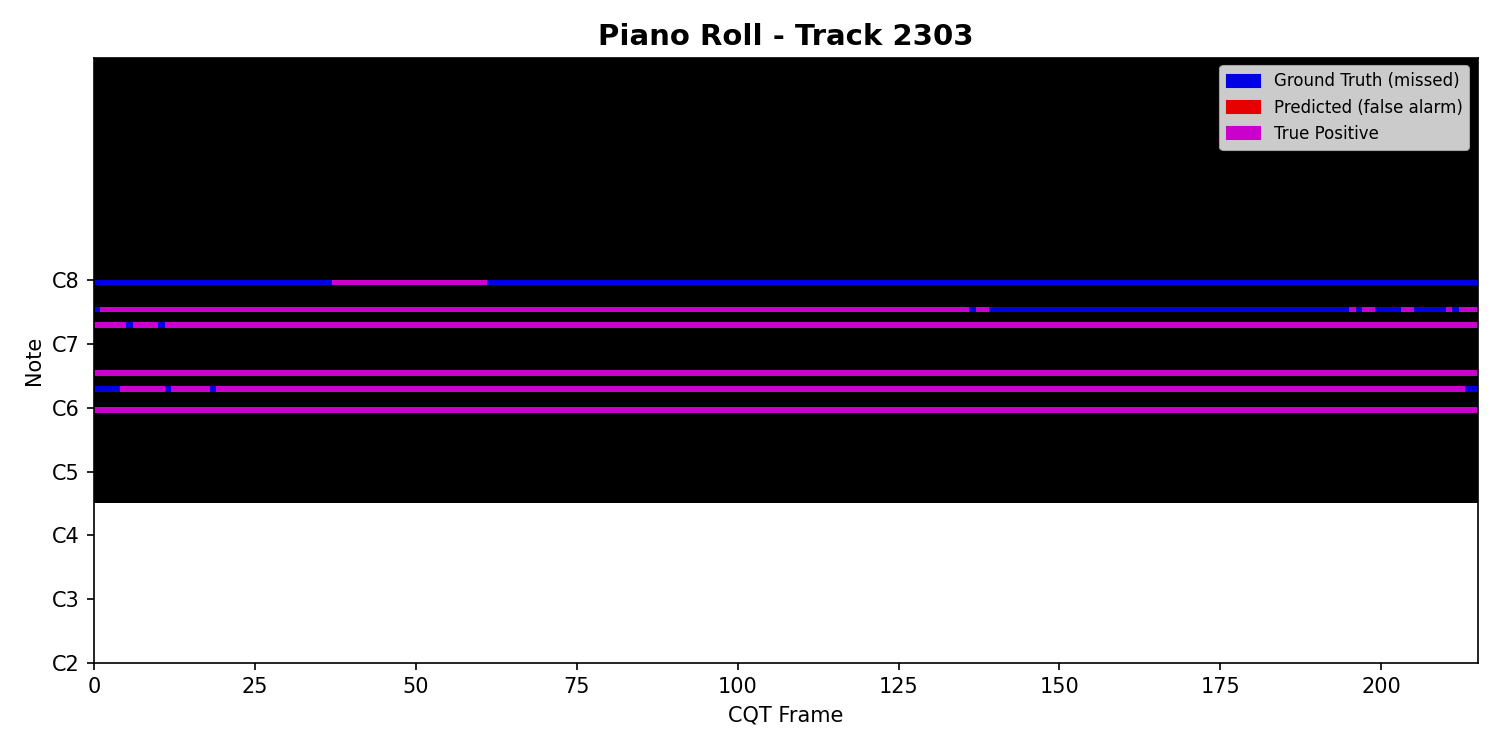
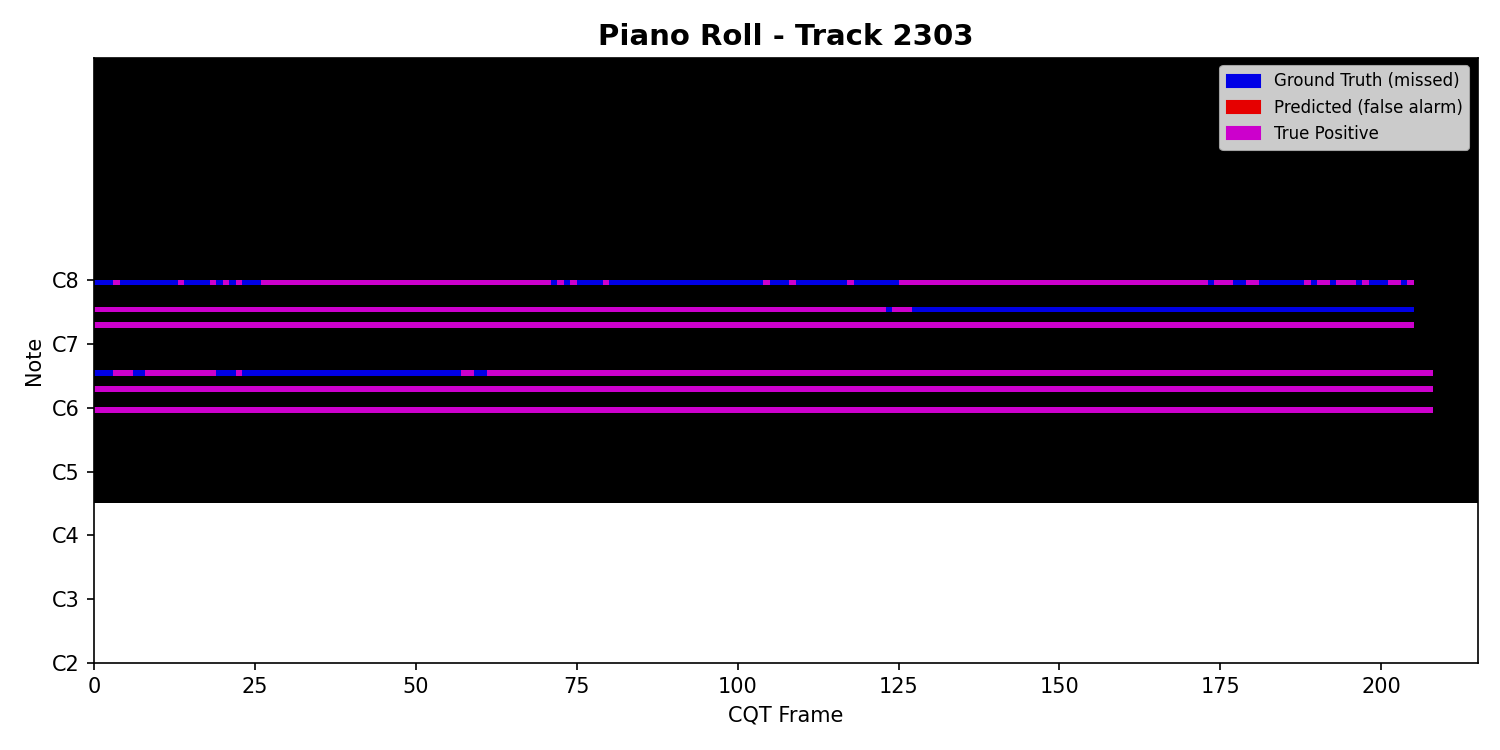
Training Phase 1

diff --git a/src/dataset.py b/src/dataset.py
@@ -196,13 +196,21 @@ class MusicNetPianoDataset(Dataset):
         # creates an empty piano roll
         piano_roll = np.zeros((num_frames, NUM_NOTES), dtype=np.float32)
 
+        # FIX: start_frame e i tempi delle note sono espressi in campioni al
+        # sample rate ORIGINALE del file (orig_sr), ma i frame del modello
+        # (num_frames, HOP_LENGTH) sono nel dominio ricampionato (self.sample_rate).
+        # Senza questa conversione gli indici di frame risultano sistematicamente
+        # disallineati rispetto alla vera timeline del CQT (stesso fix applicato
+        # in Fase 2 e già presente in Fase 3).
+        scale = self.sample_rate / ORIG_SR
+
         # convert audio start position to CQT frame index
-        start_cqt_frame = start_frame // HOP_LENGTH
+        start_cqt_frame = int(start_frame * scale) // HOP_LENGTH
 
         for _, label_row in df.iterrows():
 
-            note_start = int(label_row['start_time']) // HOP_LENGTH
-            note_end = int(label_row['end_time']) // HOP_LENGTH
+            note_start = int(label_row['start_time'] * scale) // HOP_LENGTH
+            note_end = int(label_row['end_time'] * scale) // HOP_LENGTH
 
             local_start = note_start - start_cqt_frame            
             local_end   = note_end   - start_cqt_frame

diff --git a/src/train.py b/src/train.py
@@ -146,6 +146,14 @@ def train():
             # Loss + backprop
             loss = criterion(outputs, labels)
             loss.backward()
+
+            # Gradient clipping: fissato a 1.0 in tutti gli esperimenti del paper
+            # (Tabella 1), previene i picchi di gradiente nelle prime epoche.
+            torch.nn.utils.clip_grad_norm_(
+                model.parameters(),
+                max_norm=config['training'].get('gradient_clipping', 1.0),
+            )
+
             optimizer.step()
 
             epoch_loss += loss.item()
